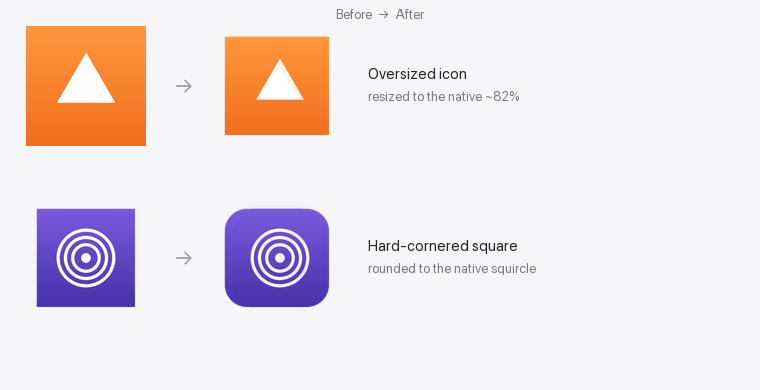
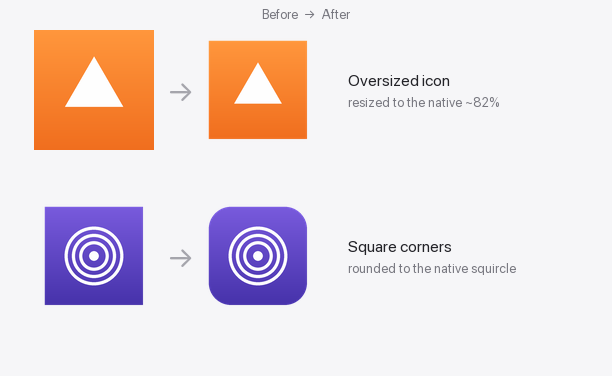
gui: align to model (on-demand from a per-user support dir; install = watcher only)
- GUI runs on-demand self-contained from ~/Library/Application Support (bundled
  scanner + its own venv), with no /usr/local dependency; "Install watcher" is
  the only install action. Fixes a stray non-ASCII char.
- docs: recenter the before/after image and add the square->squircle (Tahoe)
  row back.

diff --git a/app/IconNormalizerApp.swift b/app/IconNormalizerApp.swift
@@ -1,17 +1,23 @@
-// Icon Normalizer — small AppKit control panel for the icon-normalizer daemon.
-// Monitors the watcher log, and applies / resets icons and the watcher with the
-// chosen flags. Build with app/build.sh (needs the Swift toolchain).
+// Icon Normalizer — optional AppKit front-end for the icon-normalizer scanner.
+// On-demand (Apply/Reset/Dry-run) runs self-contained from a per-user support
+// folder (no /usr/local). Installing is only for the optional background watcher.
+// Build with app/build.sh.
 import AppKit
 
-let INSTALL = "/usr/local/icon-normalizer"
-let PY  = "\(INSTALL)/venv/bin/python"
-let NRM = "\(INSTALL)/normalizer.py"
-let LOG = "\(INSTALL)/icon-normalizer.log"
-// backend installer bundled inside the .app (Contents/Resources)
-let INSTALLER = "\(Bundle.main.resourcePath ?? "")/install.sh"
+// Self-contained, user-owned backend for on-demand use.
+let SUPPORT = (NSHomeDirectory() as NSString).appendingPathComponent("Library/Application Support/IconNormalizer")
+let VENV = SUPPORT + "/venv"
+let PYV  = VENV + "/bin/python"
+let PIPV = VENV + "/bin/pip"
+let NRM  = SUPPORT + "/normalizer.py"
+let LOG  = SUPPORT + "/icon-normalizer.log"
+// Bundled inside the .app (Contents/Resources).
+let RES         = Bundle.main.resourcePath ?? ""
+let BUNDLED_NRM = RES + "/normalizer.py"
+let BUNDLED_REQ = RES + "/requirements.txt"
+let INSTALLER   = RES + "/install.sh"
 
 func runShell(_ cmd: String) -> String {
-    // -c (not -lc): don't source the login profile, which can print noise.
     let p = Process(); p.launchPath = "/bin/bash"; p.arguments = ["-c", cmd]
     let pipe = Pipe(); p.standardOutput = pipe; p.standardError = pipe
     do { try p.run() } catch { return "error: \(error)" }
@@ -19,7 +25,6 @@ func runShell(_ cmd: String) -> String {
     return String(data: data, encoding: .utf8) ?? ""
 }
 
-// Run as root via the native admin-password prompt.
 func runAdmin(_ cmd: String) -> String {
     let esc = cmd.replacingOccurrences(of: "\\", with: "\\\\")
                  .replacingOccurrences(of: "\"", with: "\\\"")
@@ -41,8 +46,16 @@ final class Controller: NSObject, NSApplicationDelegate {
     var thresholdValue: NSTextField!
     var busy = false
 
-    // Quit when the window is closed (no menu bar to force-quit from).
     func applicationShouldTerminateAfterLastWindowClosed(_ app: NSApplication) -> Bool { true }
+    func shq(_ s: String) -> String { "'" + s.replacingOccurrences(of: "'", with: "'\\''") + "'" }
+
+    // Copy the bundled scanner into the user support dir and build its venv once.
+    func ensureBackend() -> String {
+        return "mkdir -p \(shq(SUPPORT)) && cp -f \(shq(BUNDLED_NRM)) \(shq(NRM)) && "
+             + "{ [ -x \(shq(PYV)) ] || { /usr/bin/python3 -m venv \(shq(VENV)) && "
+             + "\(shq(PIPV)) install -q --upgrade pip && "
+             + "\(shq(PIPV)) install -q -r \(shq(BUNDLED_REQ)); }; }"
+    }
 
     func applicationDidFinishLaunching(_ note: Notification) {
         let W: CGFloat = 600, H: CGFloat = 660, M: CGFloat = 18
@@ -53,105 +66,84 @@ final class Controller: NSObject, NSApplicationDelegate {
         let v = window.contentView!
 
         @discardableResult
-        func lbl(_ s: String, _ f: NSRect, bold: Bool = false, size: CGFloat = 13,
-                 gray: Bool = false) -> NSTextField {
+        func lbl(_ s: String, _ f: NSRect, bold: Bool = false, size: CGFloat = 13, gray: Bool = false) -> NSTextField {
             let t = NSTextField(labelWithString: s); t.frame = f
             t.font = bold ? .boldSystemFont(ofSize: size) : .systemFont(ofSize: size)
             if gray { t.textColor = .secondaryLabelColor }
-            t.lineBreakMode = .byWordWrapping; t.maximumNumberOfLines = 2
+            t.lineBreakMode = .byTruncatingTail
             v.addSubview(t); return t
+        }
+        @discardableResult
+        func button(_ title: String, _ x: CGFloat, _ y: CGFloat, _ w: CGFloat, _ sel: Selector,
+                    tip: String, key: String = "") -> NSButton {
+            let b = NSButton(title: title, target: self, action: sel)
+            b.frame = NSRect(x: x, y: y, width: w, height: 34); b.bezelStyle = .rounded; b.toolTip = tip
+            if !key.isEmpty { b.keyEquivalent = key }
+            v.addSubview(b); return b
         }
 
         lbl("Icon Normalizer", NSRect(x: M, y: H-42, width: W-2*M, height: 26), bold: true, size: 17)
         statusLabel = lbl("…", NSRect(x: M, y: H-66, width: W-2*M, height: 18), size: 12, gray: true)
 
-        // ---- log monitor ----
-        lbl("Watcher log", NSRect(x: M, y: H-92, width: 200, height: 16), bold: true, size: 11)
+        lbl("Log", NSRect(x: M, y: H-92, width: 200, height: 16), bold: true, size: 11)
         let bClear = NSButton(title: "Clear log", target: self, action: #selector(clearLog))
         bClear.frame = NSRect(x: W-M-104, y: H-97, width: 104, height: 22)
-        bClear.bezelStyle = .rounded; bClear.controlSize = .small
-        bClear.font = .systemFont(ofSize: 11)
-        bClear.toolTip = "Empty the watcher log file."
-        v.addSubview(bClear)
+        bClear.bezelStyle = .rounded; bClear.controlSize = .small; bClear.font = .systemFont(ofSize: 11)
+        bClear.toolTip = "Empty the on-demand log."; v.addSubview(bClear)
+
         let scroll = NSScrollView(frame: NSRect(x: M, y: 290, width: W-2*M, height: (H-98)-290))
         scroll.hasVerticalScroller = true; scroll.borderType = .bezelBorder
         logView = NSTextView(frame: scroll.bounds)
-        logView.isEditable = false
-        logView.font = .monospacedSystemFont(ofSize: 11, weight: .regular)
-        logView.autoresizingMask = [.width]
-        scroll.documentView = logView; v.addSubview(scroll)
+        logView.isEditable = false; logView.font = .monospacedSystemFont(ofSize: 11, weight: .regular)
+        logView.autoresizingMask = [.width]; scroll.documentView = logView; v.addSubview(scroll)
 
-        // ---- threshold ----
         lbl("Threshold", NSRect(x: M, y: 246, width: 80, height: 20))
         thresholdSlider = NSSlider(value: 0.92, minValue: 0.80, maxValue: 0.98,
                                    target: self, action: #selector(thresholdChanged))
         thresholdSlider.frame = NSRect(x: M+90, y: 244, width: 250, height: 22)
-        thresholdSlider.toolTip = "Only icons whose art fills at least this fraction of the canvas are treated as oversized and resized."
+        thresholdSlider.toolTip = "Only icons filling at least this fraction of the canvas are treated as oversized."
         v.addSubview(thresholdSlider)
         thresholdValue = lbl("92%", NSRect(x: M+350, y: 246, width: 60, height: 20))
         lbl("Minimum fill to count an icon as oversized (lower = affects more apps).",
             NSRect(x: M, y: 226, width: W-2*M, height: 16), size: 11, gray: true)
 
-        // ---- squircle ----
         lbl("Squircle", NSRect(x: M, y: 196, width: 80, height: 20))
-        squircle = NSSegmentedControl(labels: ["Off", "Auto", "On"],
-                                      trackingMode: .selectOne, target: nil, action: nil)
-        squircle.frame = NSRect(x: M+90, y: 192, width: 200, height: 26)
-        squircle.selectedSegment = 1
-        squircle.toolTip = "Round square icons to Apple's native shape. Auto only does it when safe (flat, uniform corners); On may clip bordered icons."
+        squircle = NSSegmentedControl(labels: ["Off", "Auto", "On"], trackingMode: .selectOne, target: nil, action: nil)
+        squircle.frame = NSRect(x: M+90, y: 192, width: 200, height: 26); squircle.selectedSegment = 1
+        squircle.toolTip = "Round square icons to Apple's shape. Auto only when safe; On may clip bordered icons."
         v.addSubview(squircle)
         lbl("Off: keep shape · Auto: round only when safe · On: always (may clip borders).",
             NSRect(x: M, y: 174, width: W-2*M, height: 16), size: 11, gray: true)
 
-        // ---- dry run ----
-        dryRun = NSButton(checkboxWithTitle: "Dry run — preview what would change, apply nothing",
-                          target: nil, action: nil)
+        dryRun = NSButton(checkboxWithTitle: "Dry run — preview what would change, apply nothing", target: nil, action: nil)
         dryRun.frame = NSRect(x: M, y: 142, width: W-2*M, height: 20)
-        dryRun.toolTip = "Show which apps Apply would touch, without changing any icons."
+        dryRun.toolTip = "Show which apps Apply would touch, without changing anything."
         v.addSubview(dryRun)
 
-        // ---- main buttons ----
-        @discardableResult
-        func button(_ title: String, _ x: CGFloat, _ y: CGFloat, _ w: CGFloat,
-                    _ sel: Selector, tip: String, key: String = "") -> NSButton {
-            let b = NSButton(title: title, target: self, action: sel)
-            b.frame = NSRect(x: x, y: y, width: w, height: 34)
-            b.bezelStyle = .rounded; b.toolTip = tip
-            if !key.isEmpty { b.keyEquivalent = key }
-            v.addSubview(b); return b
-        }
+        // on-demand actions
         button("Apply now", M, 92, 150, #selector(apply),
-               tip: "Normalize oversized icons now with the settings above (asks for admin password).", key: "\r")
+               tip: "Normalize oversized icons now (asks for your password for root-owned apps).", key: "\r")
         button("Reset icons", M+165, 92, 150, #selector(reset),
-               tip: "Restore original icons AND stop the watcher so they stay reset.")
-        button("Refresh", M+330, 92, 130, #selector(refresh),
-               tip: "Reload status and log.")
+               tip: "Restore original icons (and stop the watcher if installed).")
+        button("Refresh", M+330, 92, 130, #selector(refresh), tip: "Reload status and log.")
 
-        // ---- setup / watcher controls ----
-        button("Install scanner", M, 42, 140, #selector(installScanner),
-               tip: "Copy the scanner + venv into place for on-demand use (no background service).")
-        button("Install watcher", M+148, 42, 140, #selector(installWatcher),
-               tip: "Also install the background service that re-normalizes icons after app updates.")
-        button("Start", M+296, 42, 90, #selector(startWatcher),
-               tip: "Load the installed watcher.")
-        button("Stop", M+394, 42, 90, #selector(stopWatcher),
-               tip: "Unload the watcher. Icons stay as they are until you start it again.")
-        lbl("Scanner = on-demand (Apply). Watcher = optional auto re-apply. Reset stops the watcher.",
+        // optional watcher
+        button("Install watcher", M, 42, 150, #selector(installWatcher),
+               tip: "Optional. Install a background service that re-normalizes automatically after app updates.")
+        button("Start", M+165, 42, 95, #selector(startWatcher), tip: "Load the installed watcher.")
+        button("Stop", M+270, 42, 95, #selector(stopWatcher), tip: "Unload the watcher.")
+        lbl("Apply/Reset work on-demand (nothing installed). The watcher is optional (auto re-apply).",
             NSRect(x: M, y: 16, width: W-2*M, height: 16), size: 11, gray: true)
 
-        thresholdChanged(thresholdSlider)
-        refresh(self)
+        thresholdChanged(thresholdSlider); refresh(self)
         Timer.scheduledTimer(withTimeInterval: 3.0, repeats: true) { [weak self] _ in self?.refresh(nil) }
-        window.makeKeyAndOrderFront(nil)
-        NSApp.activate(ignoringOtherApps: true)
+        window.makeKeyAndOrderFront(nil); NSApp.activate(ignoringOtherApps: true)
     }
 
-    func shq(_ s: String) -> String { "'" + s.replacingOccurrences(of: "'", with: "'\\''") + "'" }
     func thresholdString() -> String { String(format: "%.2f", thresholdSlider.doubleValue) }
     func squircleFlag() -> String {
         switch squircle.selectedSegment { case 0: return "--no-squircle"; case 2: return "--squircle"; default: return "" }
     }
-
     @objc func thresholdChanged(_ s: Any?) {
         thresholdValue.stringValue = "\(Int((thresholdSlider.doubleValue*100).rounded()))%"
     }
@@ -159,89 +151,70 @@ final class Controller: NSObject, NSApplicationDelegate {
     @objc func refresh(_ sender: Any?) {
         let plist = runShell("ls /Library/LaunchDaemons/*icon-normalizer*.plist 2>/dev/null | head -1")
             .trimmingCharacters(in: .whitespacesAndNewlines)
-        let installed = !plist.isEmpty && FileManager.default.fileExists(atPath: NRM)
-        var running = false
-        if installed {
+        var watcher = "not installed"
+        if !plist.isEmpty {
             let label = (plist as NSString).lastPathComponent.replacingOccurrences(of: ".plist", with: "")
-            running = runShell("launchctl print system/\(label) >/dev/null 2>&1 && echo yes")
-                .contains("yes")
+            let running = runShell("launchctl print system/\(label) >/dev/null 2>&1 && echo yes").contains("yes")
+            watcher = running ? "running ✓" : "installed (stopped)"
         }
         let last = runShell("tail -n 1 \(shq(LOG)) 2>/dev/null").trimmingCharacters(in: .whitespacesAndNewlines)
-        statusLabel.stringValue = installed
-            ? "Watcher: \(running ? "running ✓" : "stopped ✕")   •   \(last.isEmpty ? "no log yet" : last)"
-            : "Not set up yet — click “Install watcher”, or just press Apply now."
+        statusLabel.stringValue = "Watcher: \(watcher)   •   \(last.isEmpty ? "ready — press Apply" : last)"
         let tail = runShell("tail -n 200 \(shq(LOG)) 2>/dev/null")
         if logView.string != tail { logView.string = tail; logView.scrollToEndOfDocument(nil) }
     }
 
-    func runAdminAction(_ cmd: String, _ status: String) {
+    // Build venv as the user, then run the privileged part with an admin prompt.
+    func ensureThenAdmin(_ cmd: String, _ status: String) {
         if busy { return }
         busy = true; statusLabel.stringValue = status
         DispatchQueue.global().async {
+            _ = runShell(self.ensureBackend())
             _ = runAdmin(cmd)
             DispatchQueue.main.async { self.busy = false; self.refresh(nil) }
         }
-    }
-
-    var backendInstalled: Bool { FileManager.default.fileExists(atPath: NRM) }
-
-    func alertInstallFirst() {
-        let a = NSAlert(); a.messageText = "Scanner isn't set up yet"
-        a.informativeText = "Click “Install watcher” first (or just use Apply now — it sets things up on first use)."
-        a.runModal()
     }
 
     @objc func apply(_ sender: Any?) {
         if busy { return }
         let env = "ICON_NORMALIZER_THRESHOLD=\(thresholdString())"
         if dryRun.state == .on {
-            guard backendInstalled else { alertInstallFirst(); return }
-            busy = true; statusLabel.stringValue = "Previewing…"
-            let cmd = "\(env) \(shq(PY)) \(shq(NRM)) --dry-run \(squircleFlag())"
+            busy = true; statusLabel.stringValue = "Preparing preview…"
             DispatchQueue.global().async {
-                let out = runShell(cmd)
+                let out = runShell("\(self.ensureBackend()) && \(env) \(self.shq(PYV)) \(self.shq(NRM)) --dry-run \(self.squircleFlag())")
                 DispatchQueue.main.async {
                     self.busy = false
                     let a = NSAlert(); a.messageText = "Dry-run preview"
-                    a.informativeText = out.isEmpty ? "(no output)" : out; a.runModal()
-                    self.refresh(nil)
+                    a.informativeText = out.isEmpty ? "(no output)" : out; a.runModal(); self.refresh(nil)
                 }
             }
             return
         }
-        // Real apply: if the backend isn't installed yet, set it up first (no watcher).
-        let prefix = backendInstalled ? "" : "bash \(shq(INSTALLER)) >/dev/null 2>&1 && "
-        let cmd = prefix + "\(env) \(shq(PY)) \(shq(NRM)) --force \(squircleFlag())"
-        runAdminAction(cmd, backendInstalled ? "Applying (enter admin password)…"
-                                             : "Setting up + applying (enter admin password)…")
-    }
-
-    @objc func installScanner(_ sender: Any?) {
-        runAdminAction("bash \(shq(INSTALLER))", "Installing scanner (enter admin password)…")
-    }
-    @objc func installWatcher(_ sender: Any?) {
-        runAdminAction("bash \(shq(INSTALLER)) --watcher", "Installing watcher (enter admin password)…")
+        ensureThenAdmin("\(env) \(shq(PYV)) \(shq(NRM)) --force \(squircleFlag())", "Applying (enter password)…")
     }
 
     @objc func reset(_ sender: Any?) {
         if busy { return }
-        guard backendInstalled else { alertInstallFirst(); return }
-        let a = NSAlert()
-        a.messageText = "Restore original icons?"
-        a.informativeText = "Removes the custom icons applied by this tool and stops the watcher so they stay reset."
+        let a = NSAlert(); a.messageText = "Restore original icons?"
+        a.informativeText = "Removes the custom icons applied by this tool, and stops the watcher if installed."
         a.addButton(withTitle: "Reset"); a.addButton(withTitle: "Cancel")
         guard a.runModal() == .alertFirstButtonReturn else { return }
-        runAdminAction("\(shq(PY)) \(shq(NRM)) --revert", "Resetting (enter admin password)…")
+        ensureThenAdmin("\(shq(PYV)) \(shq(NRM)) --revert", "Resetting (enter password)…")
     }
 
+    @objc func installWatcher(_ sender: Any?) {
+        if busy { return }
+        busy = true; statusLabel.stringValue = "Installing watcher (enter password)…"
+        DispatchQueue.global().async {
+            _ = runAdmin("bash \(self.shq(INSTALLER))")
+            DispatchQueue.main.async { self.busy = false; self.refresh(nil) }
+        }
+    }
+    @objc func startWatcher(_ s: Any?) { ensureThenAdmin("\(shq(PYV)) \(shq(NRM)) --start-watcher", "Starting watcher…") }
+    @objc func stopWatcher(_ s: Any?)  { ensureThenAdmin("\(shq(PYV)) \(shq(NRM)) --stop-watcher", "Stopping watcher…") }
+
     @objc func clearLog(_ s: Any?) {
-        runAdminAction("\(shq(PY)) \(shq(NRM)) --clear-log", "Clearing log…")
-    }
-    @objc func startWatcher(_ s: Any?) {
-        runAdminAction("\(shq(PY)) \(shq(NRM)) --start-watcher", "Starting watcher…")
-    }
-    @objc func stopWatcher(_ s: Any?) {
-        runAdminAction("\(shq(PY)) \(shq(NRM)) --stop-watcher", "Stopping watcher…")
+        _ = runShell(": > \(shq(LOG))")   // user-owned log, no admin needed
+        refresh(nil)
     }
 }
 

diff --git a/README.md b/README.md
@@ -11,6 +11,9 @@ and can round square ones into the native squircle.
 
 ![Before / after](docs/before-after.png)
 
+*Resized to the native size, and (for square icons) rounded to the native
+squircle — the same shape macOS uses for Tahoe's Liquid Glass icons.*
+
 ## Use it
 
 **Fix your icons now** — nothing gets installed:
